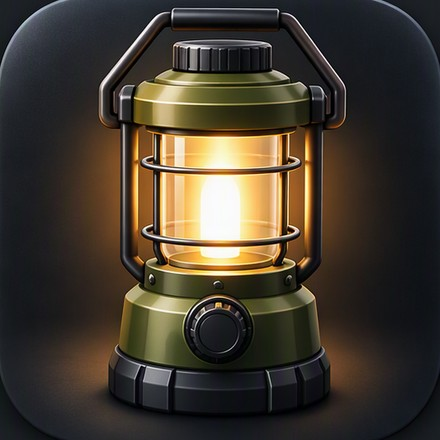
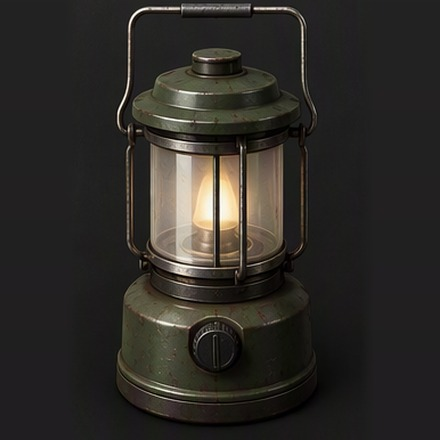
Add files via upload

diff --git a/index.html b/index.html
@@ -4,8 +4,8 @@
 <meta charset="utf-8">
 <meta name="viewport" content="width=device-width, initial-scale=1, viewport-fit=cover">
 <title>Emergency reserve</title>
-<link rel="icon" type="image/png" href="favicon.png?v=3">
-<link rel="apple-touch-icon" sizes="180x180" href="icon-180.png?v=3">
+<link rel="icon" type="image/png" href="favicon.png?v=4">
+<link rel="apple-touch-icon" sizes="180x180" href="icon-180.png?v=4">
 <meta name="apple-mobile-web-app-title" content="Reserve">
 <meta name="theme-color" content="#0f1410">
 <link rel="stylesheet" href="https://fonts.googleapis.com/css2?family=Barlow:wght@400;500;600&family=Barlow+Semi+Condensed:wght@600;700&display=swap">
@@ -146,7 +146,7 @@ button.fb{cursor:pointer}
 <filter id="fSoft" x="-60%" y="-40%" width="220%" height="180%"><feGaussianBlur stdDeviation="1.6"/></filter>
 </defs></svg>
 <main>
-<div class="head"><img src="icon-512.png?v=3" alt=""><div><h1>Emergency reserve</h1>
+<div class="head"><img src="icon-512.png?v=4" alt=""><div><h1>Emergency reserve</h1>
 <p class="sub">Track what you have stored and when it needs replacing.</p></div></div>
 <div id="tiles" class="tiles"></div>
 <div id="flag" class="flag" role="status"></div>
